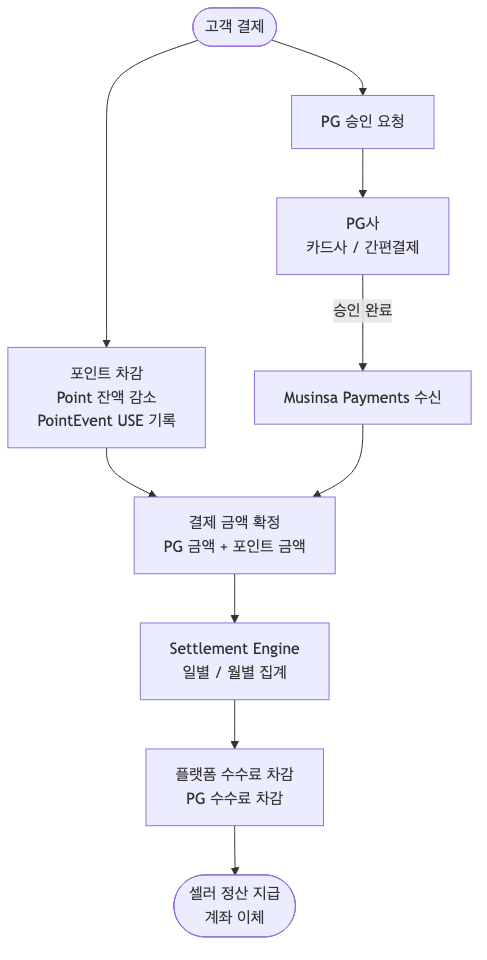
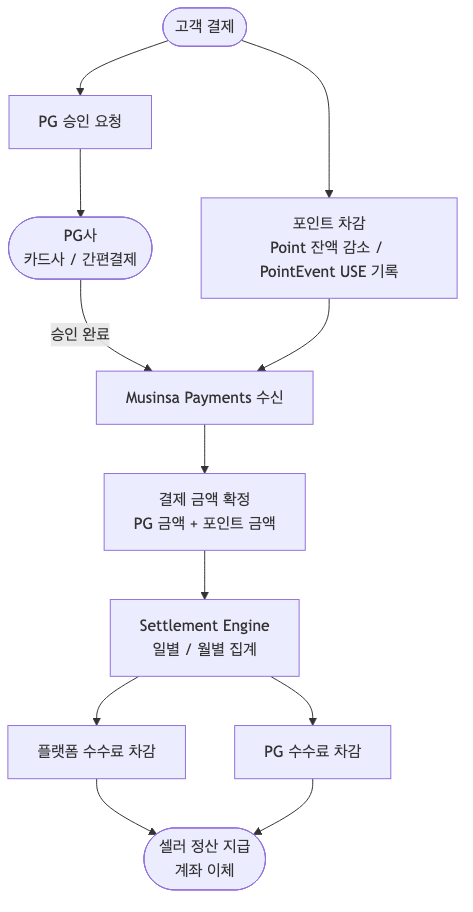
docs: README 7.3 섹션 제거 및 돈의흐름 다이어그램 수정

diff --git a/README.md b/README.md
@@ -924,38 +924,26 @@ AWS 기반 아키텍처 구성도는 `docs/아키텍처 구성.md` 파일을 통
 ```
 고객 결제
    │
-   ├─ 포인트 차감 ──────────────────────────────────────────┐
-   │   (Point 잔액 감소, PointEvent USE 기록)               │
-   │                                                        │
-   └─ PG 승인 요청                                          │
-         │                                                  │
-         ▼                                                  │
-    PG사 (카드사 / 간편결제)                                 │
-         │ 승인 완료                                         │
-         ▼                                                  │
-    Musinsa Payments 수신                                   │
-         │                                                  │
-         ├─ 결제 금액 확정 (PG 금액 + 포인트 금액) ◄─────────┘
-         │
-         ▼
-    Settlement Engine
-         │  일별 / 월별 집계
-         ├─ 플랫폼 수수료 차감
-         ├─ PG 수수료 차감
-         │
-         ▼
-    셀러 정산 지급 (계좌 이체)
+   ├─ [1] 포인트 차감  (Point 잔액 감소, PointEvent USE 기록)
+   │
+   └─ [2] PG 승인 요청
+               │
+               ▼
+          PG사 (카드사 / 간편결제)
+               │ 승인 완료 (Webhook → Musinsa Payments)
+               ▼
+          Musinsa Payments 수신
+               │
+               ├─ 결제 금액 확정  ([1] 포인트 금액 + [2] PG 금액)
+               │  ※ 구매 확정 시 유료 포인트(PAID) 적립이 발생할 수 있음
+               │
+               ▼
+          Settlement Engine
+               │  일별 / 월별 집계
+               ├─ 플랫폼 수수료 차감
+               ├─ PG 수수료 차감
+               │
+               ▼
+          셀러 정산 지급 (계좌 이체)
 ```
 
-### 7.3 이 시스템에 추가로 존재할 것 같은 기능 (도메인 추측)
-
-| 기능 | 추측 근거 |
-|------|-----------|
-| 포인트 유효기간 연장 | 만료 임박 알림 + 연장 이벤트 프로모션 |
-| 포인트 선물 / 이전 | 친구 초대, 리뷰 보상 등 마케팅 수단 |
-| 등급별 적립률 차등 | VIP / 일반 회원 구분, 구매 금액 기반 등급 |
-| 포인트 적립 알림 | 적립/만료 임박 Push / 카카오 알림톡 |
-| 포인트 합산 한도 정책 | 1회 사용 한도, 주문 금액 대비 사용 비율 제한 |
-| 관리자 수기 지급 / 회수 | CS 처리, 오지급 정정 (MANUAL 타입 이미 존재) |
-| 포인트 적립 예약 | 구매 확정 후 N일 뒤 적립 (반품 기간 고려) |
-| 정산 연동 | 포인트 차감분을 플랫폼이 부담하는 정산 처리 |
